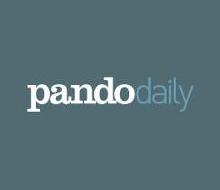
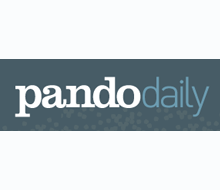
News Page Update
Added new stories from Forbes, Pando Daily and CFO.

diff --git a/news.html b/news.html
@@ -114,10 +114,40 @@
             <div id="explanation">
                 <h1>Latest News</h1>
                 <p>
-                    Welcome to the FastPay News Center, featuring press coverage of FastPay and our clients, feature stories written by members of our team, and the latest company news.
+                    Welcome to the FastPay News Center, featuring press coverage of FastPay and our clients, feature stories written by members of our team, and the latest Company news.
                 </p>
             </div>
             <div id="news-stories">
+            	<div class="news-item">
+            	    <img src="images/news/pando.png" alt="Pando Daily" class="news-logo" />
+                    <div class="news-body">
+                        <h3>FastPay raises another $10M, crosses $100M in digital receivable lending</h3>                       
+                        <p>Building a business around online advertising is hard enough without having to combat the cashflow issues created by lengthy payment terms. A survey by industry regulatory body IAB indicates that nearly 80 percent of digital advertising invoices take 60 days or longer to pay. Yes it’s great that Pepsi and Ford want to advertise on your site, or purchase inventory through your ad exchange, but the fact that they want to pay you “net-90” – or after 90 days – could seriously hamper your growth.  <br />   <br />    
+                        	FastPay, a technology-driven “anti-bank” in founder and CEO Jed Simon’s words, is helping combat these growth impediments by providing commercial loans against digital advertising receivables – aka factoring. Since launching in 2010, the company has lent out more than $100 million of this “working capital gap financing” to over 100 publishers, ad-tech companies, and other digital media businesses. 
+                        	               	                 
+                        </p>
+                         <a class="read-more" href="http://pandodaily.com/2013/02/20/fastpay-raises-another-10m-crosses-100m-in-digital-receivable-lending/" target="_blank"> Read More&nbsp;&nbsp;<img src="images/widgets/Small-Blue-Arrow.png" alt="Click to read more" /> </a>
+                    </div>
+               </div>
+            	<div class="news-item">
+            	    <img src="images/news/forbes.png" alt="Forbers" class="news-logo" />
+                    <div class="news-body">
+                        <h3>Going Beyond Venture Capital When Funding Growth</h3>                       
+                        <p>When it comes to funding an early-stage company, the options are often limited.  They usually include angel and venture rounds. So it seems reasonable that there should be some more approaches, right?  Well, this is what Jed Simon believes.  Back in 2010, he started FastPay, which allows digital companies to finance their growth from receivables.  Recently I met up with Jed to learn more about his business.  Here’s what he had to say...                        	                     	                 
+                        </p>
+                         <a class="read-more" href="http://www.forbes.com/sites/tomtaulli/2013/02/20/going-beyond-venture-capital-when-funding-growth/" target="_blank"> Read More&nbsp;&nbsp;<img src="images/widgets/Small-Blue-Arrow.png" alt="Click to read more" /> </a>
+                    </div>
+               </div>
+            	<div class="news-item">
+            	    <img src="images/news/CFO.png" alt="CFO" class="news-logo" />
+                    <div class="news-body">
+                        <h3>Factors Funding Digital Firms’ Invoices</h3>                       
+                        <p>Caught in a cash squeeze, emerging media companies are borrowing against their receivables to gain working capital.   <br />   <br />
+                           At first, Paras Maniar [founding executive, former chief strategy officer and board member of EQAL]  was cautious about FastPay. “It sounded like a fantasy,” he says. So last year Maniar did a test with one $200,000 invoice. “The cash came right in within 24 hours. When they got payment, they took their piece, and put the rest in our account,” he recalls. Maniar believes that EQAL’s acquisition by Everyday Health was a success  for EQAL in part because it felt it could walk away if the deal wasn’t right. “If you can’t walk away, you get squeezed,” he says.         	                 
+                        </p>
+                         <a class="read-more" href="http://www3.cfo.com/article/2013/2/credit-capital_accounts-receivable-small-biz-funding-factoring-working-capital?currpage=1" target="_blank"> Read More&nbsp;&nbsp;<img src="images/widgets/Small-Blue-Arrow.png" alt="Click to read more" /> </a>
+                    </div>
+               </div>
             	<div class="news-item">
             	    <img src="images/news/venturebeat.png" alt="VentureBeat" class="news-logo" />
                     <div class="news-body">
